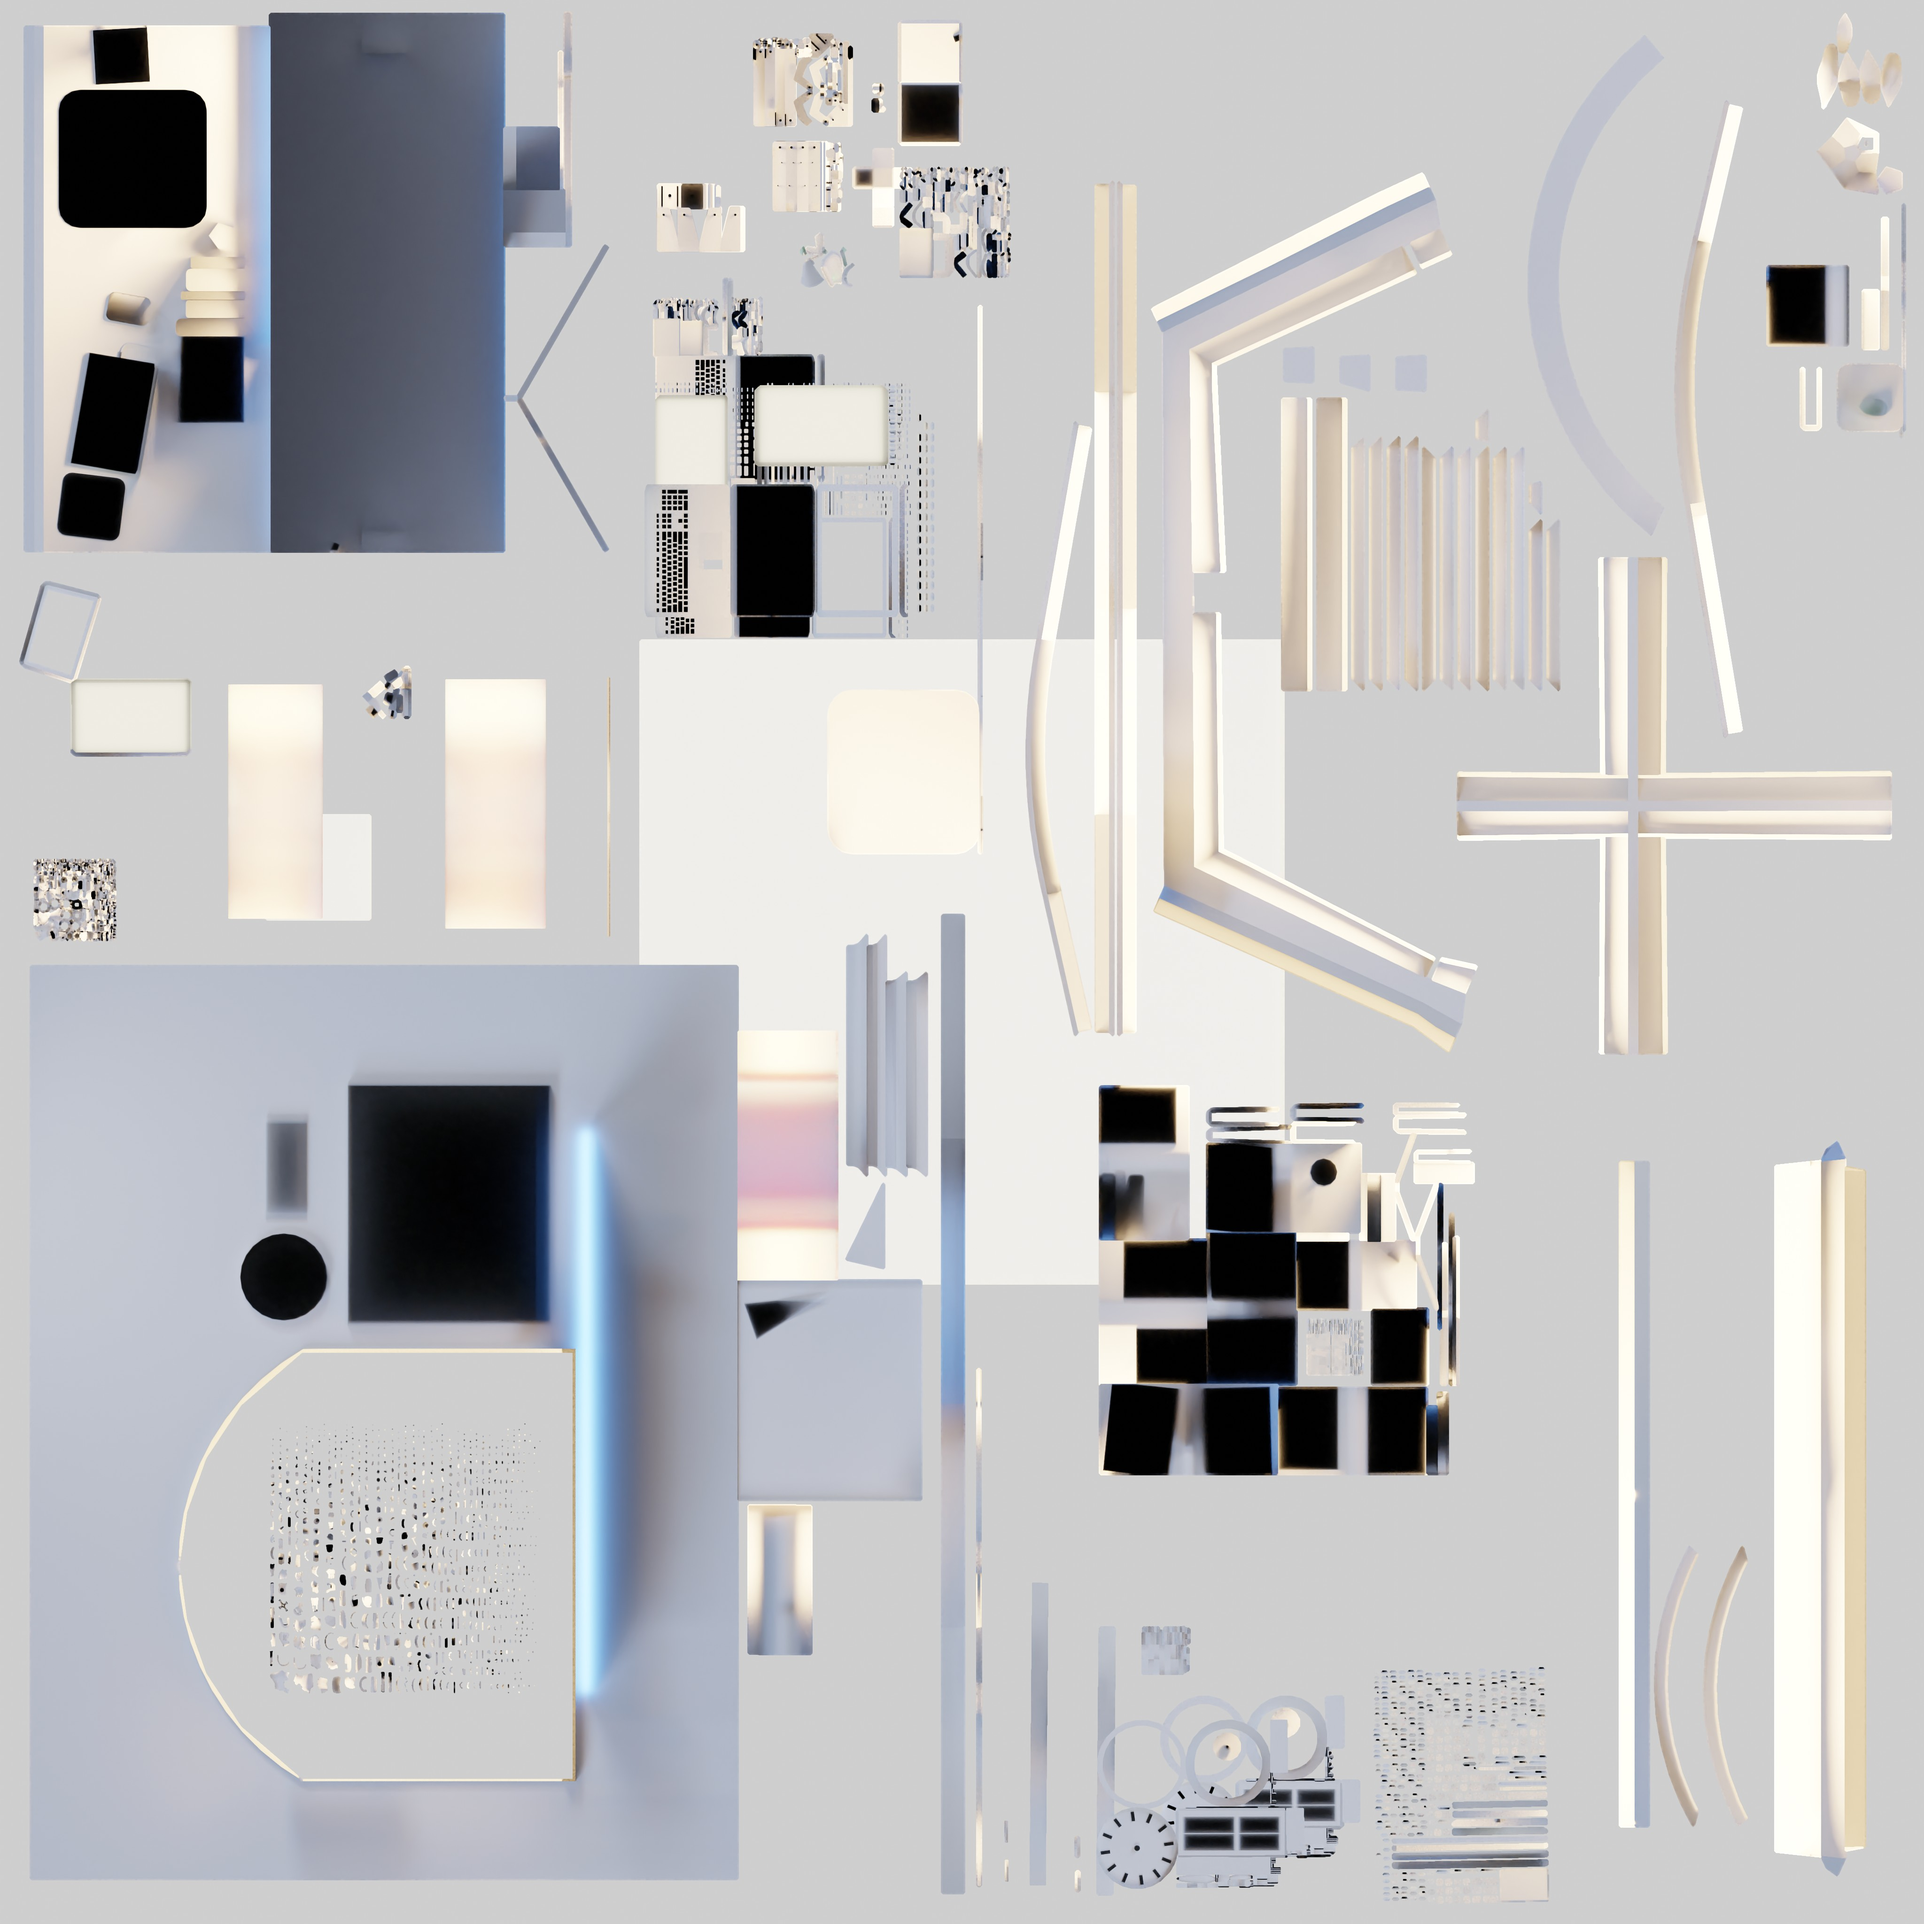
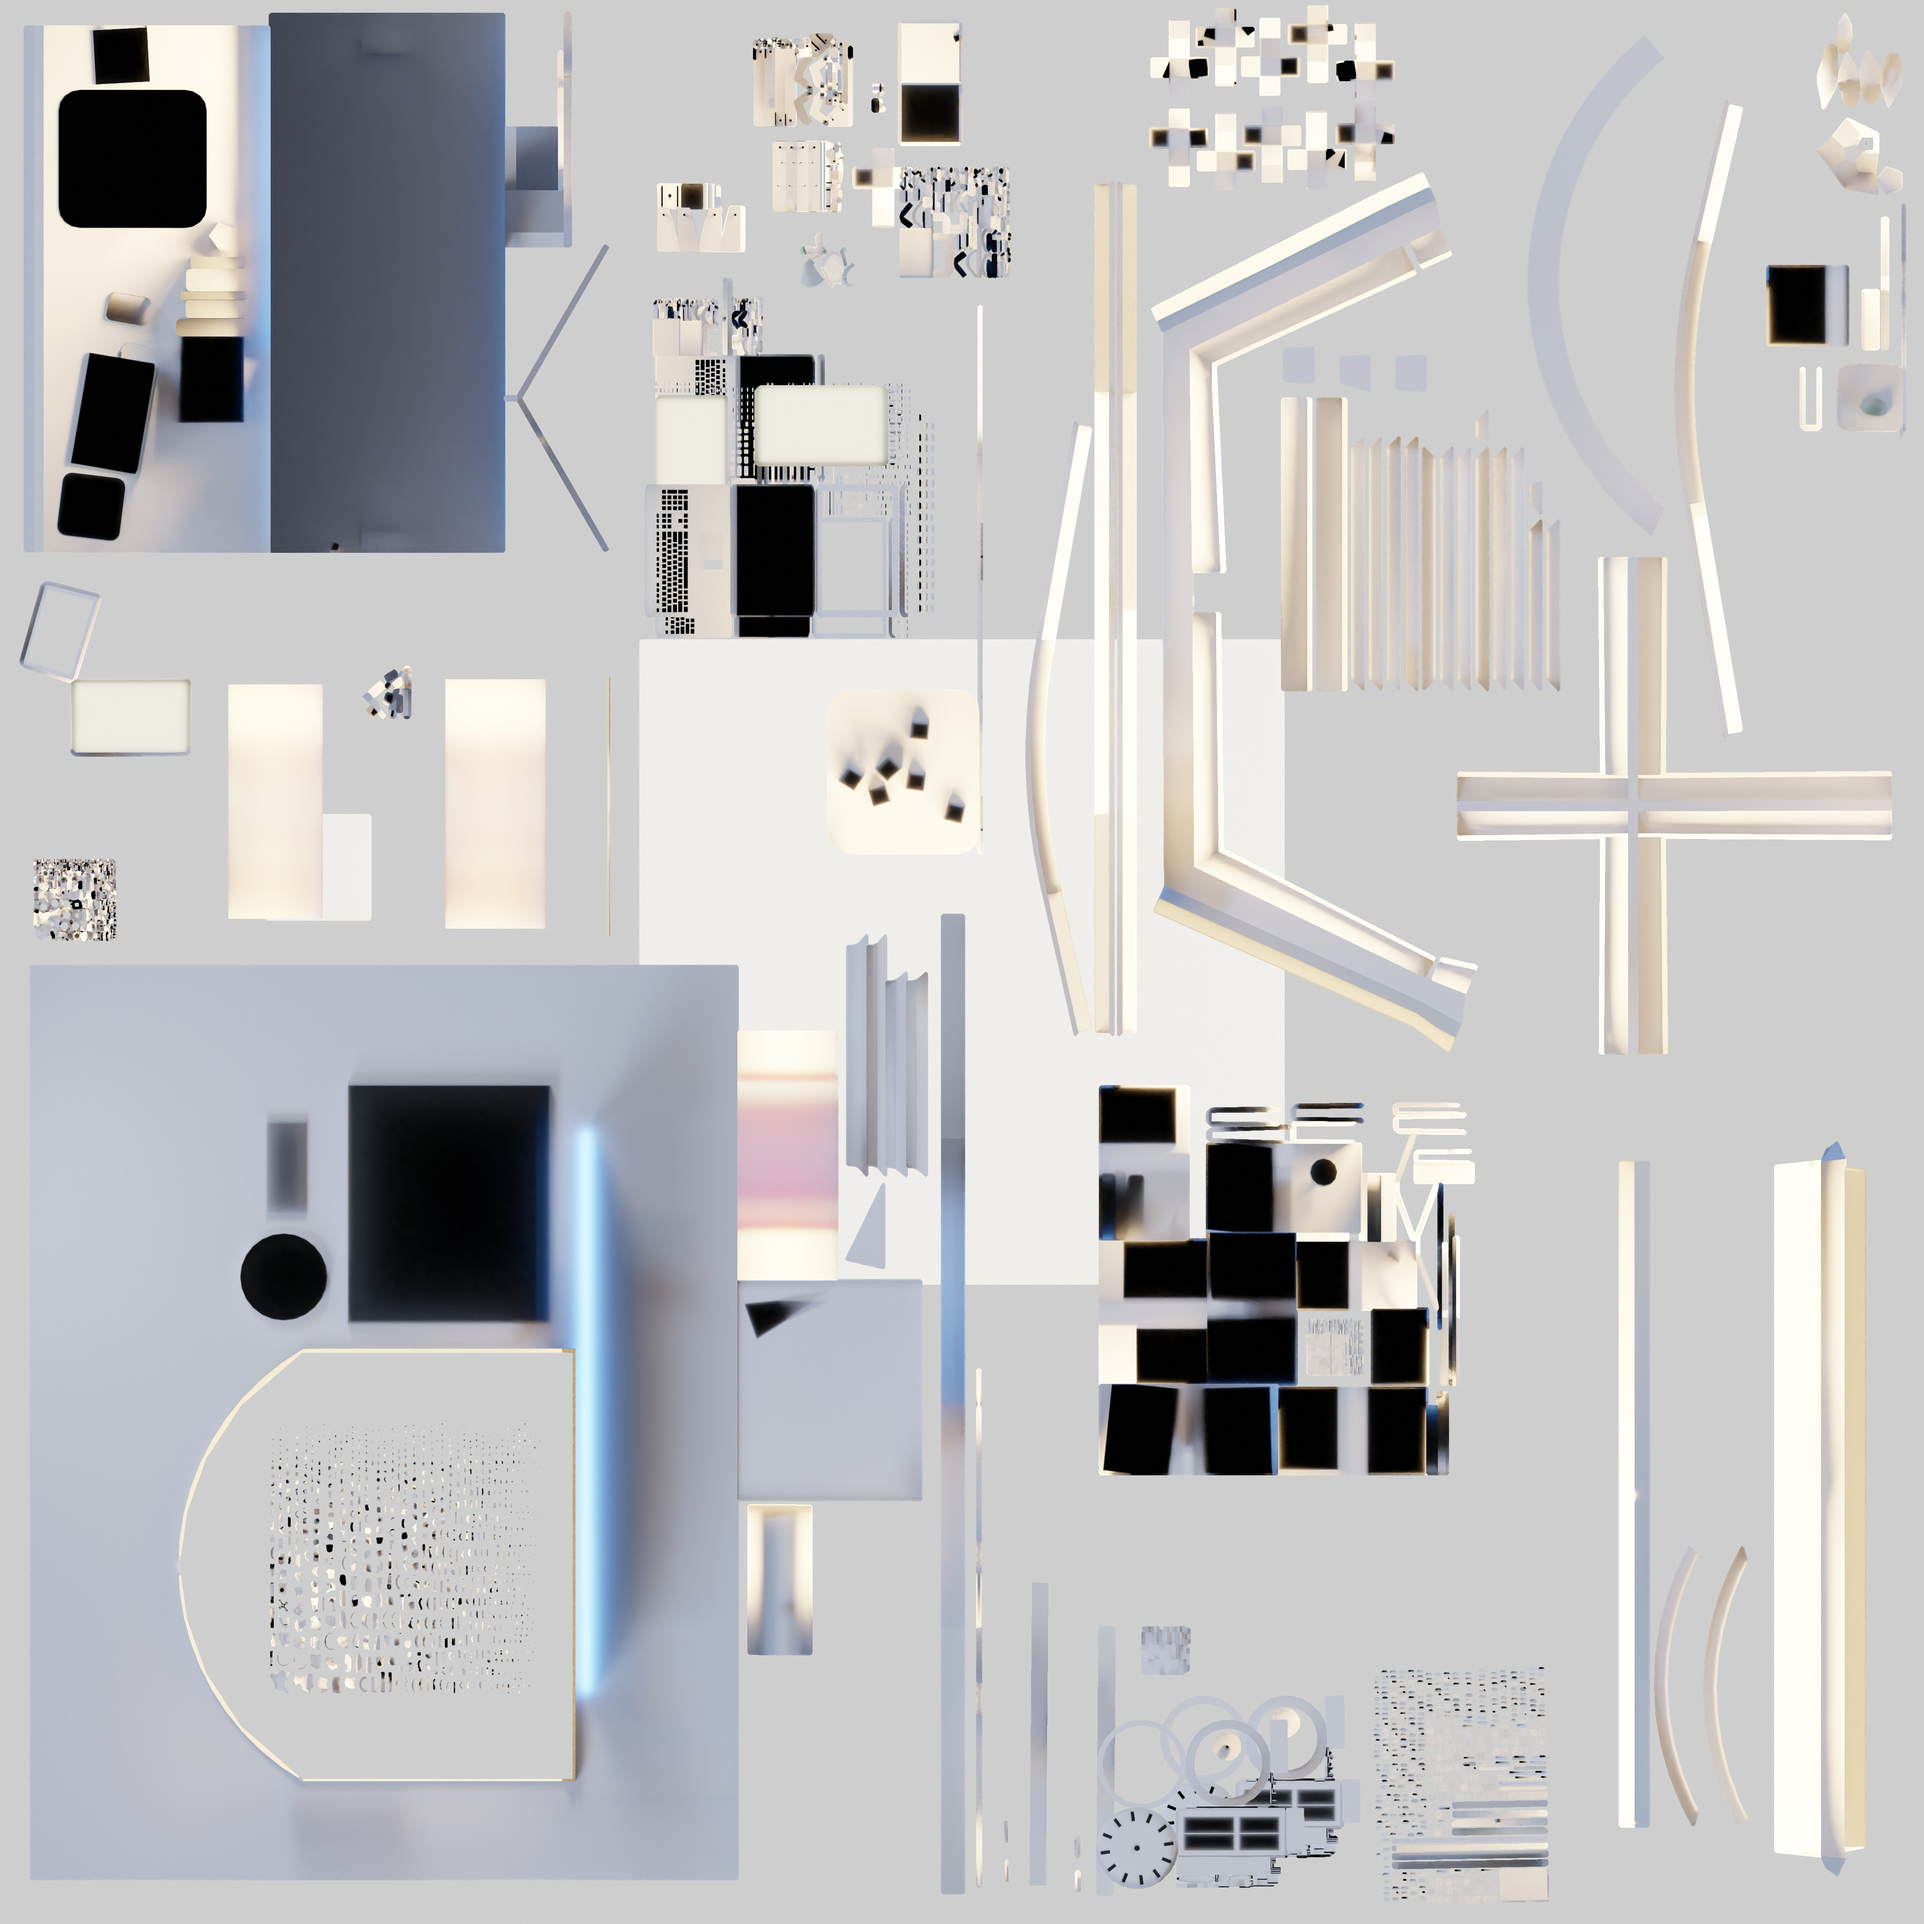
Added sky and basic cloud billboard class

Changed region(s): [[0.5938, 0.0, 0.7188, 0.0938], [0.4375, 0.3438, 0.5, 0.4375]]

diff --git a/src/components/pages/Home.js b/src/components/pages/Home.js
@@ -1,9 +1,10 @@
 import React, { Suspense, useRef } from "react";
 import { Canvas, useFrame, useThree } from "@react-three/fiber";
-import { OrbitControls, PresentationControls } from "@react-three/drei";
-import { useControls } from "leva";
+import { OrbitControls, PresentationControls, useProgress, Html, Sky } from "@react-three/drei";
+import { useControls, Leva } from "leva";
 import RoomModels from "../modules/3DExperience/RoomModels";
 import * as THREE from "three";
+import Clouds from "../modules/3DExperience/Clouds";
 
 // softShadows({
 //   frustum: 3.75,
@@ -29,40 +30,76 @@ function Rig() {
   });
 }
 
+function CustomLoader() {
+  return (
+    <Html position={[0, startingCameraPos[1], startingCameraPos[2]]}>
+      <p style={{ color: "black", width: "200px" }}>Preparing scene</p>
+    </Html>
+  );
+}
+
 const Home = (props) => {
   const orbitMaxAngle = Math.PI / 32;
   const halfwayAngle = Math.PI / 2;
 
   const lightProps = useControls("Light", {
-    position: [0, 1, 0],
+    position: [-0.4, 0.8, 0.2],
+  });
+
+  // const sunProps = useControls("Sun", {
+  //   distance: 450000,
+  //   sunPosition: [0, 1, 0],
+  //   inclination: { value: 0.0, min: 0.0, max: 1.0, step: 0.001 },
+  //   azimuth: { value: 0.25, min: 0.0, max: 1.0, step: 0.001 },
+  // });
+
+  const sunProps = useControls("Sun", {
+    distance: 10,
+    inclination: { value: 0.8, min: 0.0, max: 1.0, step: 0.001 },
+    azimuth: { value: 0.9, min: 0.0, max: 1.0, step: 0.001 },
+    mieCoefficient: { value: 0.005, min: 0.0, max: 1.0, step: 0.001 },
+    mieDirectionalG: { value: 0.7, min: 0.0, max: 1.0, step: 0.001 },
+    rayleigh: 0,
+    turbidity: 10,
+  });
+
+  const cloudProps = useControls("Cloud", {
+    depth: 10,
   });
 
   return (
-    <Canvas
-      dpr={[1, 2]}
-      camera={{ position: startingCameraPos, fov: 15, rotation: [0, Math.PI / 2, 0] }}
-      shadows
-    >
-      {/* <OrbitControls /> */}
-      <Suspense fallback={null}>
-        <directionalLight
-          castShadow
-          intensity={1}
-          shadow-mapSize-width={1024}
-          shadow-mapSize-height={1024}
-          shadow-camera-far={4}
-          shadow-camera-left={-1}
-          shadow-camera-right={1}
-          shadow-camera-top={1}
-          shadow-camera-bottom={-1}
-          {...lightProps}
-        />
-        <ambientLight intensity={0.25} />
-        <color attach="background" args={["#aaaaaa"]} />
-        <RoomModels />
-      </Suspense>
-      <Rig />
-    </Canvas>
+    <>
+      <Leva collapsed={true} />
+      <Canvas
+        dpr={[1, 2]}
+        camera={{ position: startingCameraPos, fov: 15, rotation: [0, Math.PI / 2, 0] }}
+        shadows
+      >
+        {/* <OrbitControls /> */}
+
+        <Suspense fallback={<CustomLoader />}>
+          <ambientLight intensity={0.6} />
+          <directionalLight
+            castShadow
+            intensity={0.5}
+            shadow-mapSize-width={1024}
+            shadow-mapSize-height={1024}
+            shadow-camera-far={4}
+            shadow-camera-left={-1}
+            shadow-camera-right={1}
+            shadow-camera-top={1}
+            shadow-camera-bottom={-1}
+            {...lightProps}
+          />
+          <Sky {...sunProps} />
+
+          <color attach="background" args={["#aaaaaa"]} />
+          <RoomModels />
+          <Clouds />
+        </Suspense>
+        <Rig />
+      </Canvas>
+    </>
   );
 };
 

diff --git a/src/components/modules/3DExperience/Clock.js b/src/components/modules/3DExperience/Clock.js
@@ -31,11 +31,11 @@ const DateText = (props) => {
   const dayNumber = useRef(date.current.getDate());
 
   const { color, position } = useControls("Text", {
-    color: "white",
+    color: [0.8, 0.8, 0.8],
     position: [-0.268, 0.67, -0.503],
   });
 
-  const font = useLoader(FontLoader, "/typefaces/Roboto_Mono_Bold_Reversed.json");
+  const font = useLoader(FontLoader, "/typefaces/Roboto_Mono_Reversed.json");
   const config = useMemo(() => ({ font, size: 0.065, height: 0.001 }), [font]);
   //useLayoutEffect(() => void ref.current.geometry.center(), [text]);
 
@@ -43,7 +43,7 @@ const DateText = (props) => {
     <>
       <mesh rotation={[0, Math.PI / 2, 0]} position={position} scale={[0.75, 1, 1]}>
         <textGeometry args={[month.current, config]} />
-        <meshStandardMaterial color={color} />
+        <meshBasicMaterial color={color} />
       </mesh>
 
       <mesh
@@ -52,7 +52,7 @@ const DateText = (props) => {
         scale={[0.9, 1, 1]}
       >
         <textGeometry args={[zeroPad(dayNumber.current, 2), config]} />
-        <meshStandardMaterial color={color} />
+        <meshBasicMaterial color={color} />
       </mesh>
     </>
   );
@@ -60,6 +60,7 @@ const DateText = (props) => {
 
 const Clock = (props) => {
   const { nodes } = useGLTF("/clockHands.glb");
+  console.log(nodes);
   const startTime = useRef(0.0);
 
   const date = useRef(new Date());
@@ -73,7 +74,6 @@ const Clock = (props) => {
     startTime.current += deltaSeconds;
     if (startTime.current >= 1) {
       // Update every second
-      console.log("Updating");
       startTime.current = startTime.current % 1;
       date.current = new Date();
       hour.current = date.current.getHours();
@@ -91,14 +91,14 @@ const Clock = (props) => {
         geometry={nodes.hourhand.geometry}
         position={nodes.hourhand.position}
       >
-        <meshBasicMaterial map={props.bakedTexture} map-flipY={false} color={"lightgray"} />
+        <meshBasicMaterial map={props.bakedTexture} map-flipY={false} color={[0.9, 0.9, 0.9]} />
       </mesh>
       <mesh
         ref={minuteHandMesh}
         geometry={nodes.minutehand.geometry}
         position={nodes.minutehand.position}
       >
-        <meshBasicMaterial map={props.bakedTexture} map-flipY={false} color={"lightgray"} />
+        <meshBasicMaterial map={props.bakedTexture} map-flipY={false} color={[0.9, 0.9, 0.9]} />
       </mesh>
       <DateText />
     </group>

diff --git a/src/components/modules/3DExperience/Clouds.js b/src/components/modules/3DExperience/Clouds.js
@@ -1,0 +1,33 @@
+import { Billboard, useTexture, Plane } from "@react-three/drei";
+import { useRef, useMemo, useLayoutEffect } from "react";
+import { useControls } from "leva";
+const CLOUD_URL =
+  "https://rawcdn.githack.com/pmndrs/drei-assets/9225a9f1fbd449d9411125c2f419b843d0308c9f/cloud.png";
+
+const SingleCloud = (props) => {
+  const texture = useTexture(CLOUD_URL);
+
+  return (
+    <Billboard>
+      <Plane args={[1, 1]} scale={[10, 10, 1]}>
+        <meshBasicMaterial
+          attach="material"
+          map={texture}
+          color="white"
+          transparent={true}
+          opacity={0.5}
+        />
+      </Plane>
+    </Billboard>
+  );
+};
+
+const Clouds = (props) => {
+  return (
+    <group {...props} dispose={null} position={[-200, 20, 0]}>
+      <SingleCloud />
+    </group>
+  );
+};
+
+export default Clouds;

diff --git a/src/components/modules/3DExperience/Cubes.js b/src/components/modules/3DExperience/Cubes.js
@@ -1,0 +1,21 @@
+import { useGLTF } from "@react-three/drei";
+import { useFrame, extend, useLoader } from "@react-three/fiber";
+import { useRef, useMemo, useLayoutEffect } from "react";
+import { useControls } from "leva";
+
+const Cubes = (props) => {
+  const { nodes } = useGLTF("/bakedCubes.glb");
+  console.log(nodes);
+
+  return (
+    <group {...props} dispose={null} position={[0, 0, 0]}>
+      <mesh geometry={nodes.cubes.geometry} position={nodes.cubes.position} receiveShadow>
+        <meshBasicMaterial map={props.bakedTexture} map-flipY={false} />
+      </mesh>
+    </group>
+  );
+};
+
+useGLTF.preload("/bakedCubes.glb");
+
+export default Cubes;

diff --git a/src/components/modules/3DExperience/RoomModels.js b/src/components/modules/3DExperience/RoomModels.js
@@ -2,6 +2,7 @@ import { useGLTF, useTexture } from "@react-three/drei";
 import * as THREE from "three";
 import Clock from "./Clock";
 import Robot from "./Robot";
+import Cubes from "./Cubes";
 
 const RoomModels = (props) => {
   const { nodes } = useGLTF("/room_merged_updatedUVs.glb");
@@ -20,7 +21,8 @@ const RoomModels = (props) => {
       </mesh>
 
       <Clock bakedTexture={bakedTexture} sceneRoot={nodes.baked.position} />
-      <Robot bakedTexture={bakedTexture} sceneRoot={nodes.baked.position}></Robot>
+      <Robot bakedTexture={bakedTexture} sceneRoot={nodes.baked.position} />
+      <Cubes bakedTexture={bakedTexture} />
     </>
   );
 };

diff --git a/src/components/modules/3DExperience/PhysicsCubes.js b/src/components/modules/3DExperience/PhysicsCubes.js
@@ -1,0 +1,21 @@
+import { useGLTF } from "@react-three/drei";
+import { useFrame, extend, useLoader } from "@react-three/fiber";
+import { useRef, useMemo, useLayoutEffect } from "react";
+import { useControls } from "leva";
+
+const PhysicsCubes = (props) => {
+  const { nodes } = useGLTF("/cube.glb");
+  console.log(nodes);
+
+  return (
+    <group {...props} dispose={null} position={[0, 0, 0]}>
+      <mesh geometry={nodes.Cube006.geometry} position={nodes.Cube006.position} castShadow>
+        <meshStandardMaterial />
+      </mesh>
+    </group>
+  );
+};
+
+useGLTF.preload("/cube.glb");
+
+export default PhysicsCubes;
